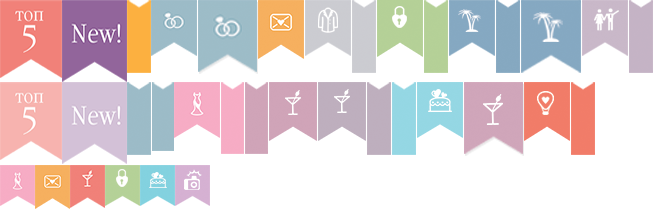
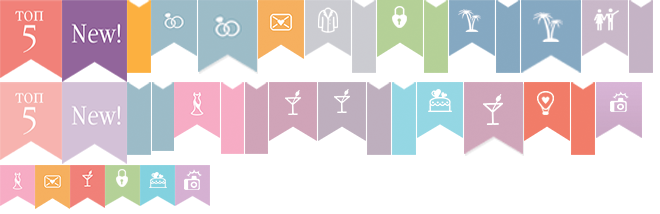
+ photo galleries

Changed region(s): [[0.8788, 0.3645, 0.9697, 0.6449]]

diff --git a/photographer-personal.html b/photographer-personal.html
@@ -320,6 +320,167 @@
                         </aside>
                     </div>
                 </div>
+                <div class="articles">
+                    <h3 class="title title-see-more-short two-sides-dots"><span>Смотреть еще</span></h3>
+                    <ul>
+                        <li>
+                            <div class="photo-box photo-box-large2 purple-color">
+                                <div class="caption">
+                                    <div class="cell cell-sticker">
+                                        <span class="sticker violet-wide"></span>
+                                    </div>
+                                    <div class="cell">
+                                        <strong><a href="#">Имя Фамилия</a></strong>
+                                        <span class="price">от 3 000 руб.</span>
+                                    </div>
+                                </div>
+                                <div class="photo">
+                                    <div class="cropper">
+                                        <div class="slides">
+                                            <div class="slide"><img src="images/img167.jpg" alt="" width="381" height="253"/></div>
+                                            <div class="slide"><img src="images/img168.jpg" alt="" width="362" height="245"/></div>
+                                            <div class="slide"><img src="images/img169.jpg" alt="" width="358" height="243"/></div>
+                                            <div class="slide"><img src="images/img170.jpg" alt="" width="367" height="254"/></div>
+                                            <div class="slide"><img src="images/img171.jpg" alt="" width="361" height="246"/></div>
+                                        </div>
+                                    </div>
+                                    <span class="btn-left" href="#">&nbsp;</span>
+                                    <span class="btn-right" href="#">&nbsp;</span>
+                                </div>
+                            </div>
+                        </li>
+                        <li>
+                            <div class="photo-box photo-box-large2 purple-color">
+                                <div class="caption">
+                                    <div class="cell cell-sticker">
+                                        <span class="sticker violet-wide"></span>
+                                    </div>
+                                    <div class="cell">
+                                        <strong><a href="#">Имя Фамилия</a></strong>
+                                        <span class="price">от 3 000 руб.</span>
+                                    </div>
+                                </div>
+                                <div class="photo">
+                                    <div class="cropper">
+                                        <div class="slides">
+                                            <div class="slide"><img src="images/img168.jpg" alt="" width="362" height="245"/></div>
+                                            <div class="slide"><img src="images/img169.jpg" alt="" width="358" height="243"/></div>
+                                            <div class="slide"><img src="images/img170.jpg" alt="" width="367" height="254"/></div>
+                                            <div class="slide"><img src="images/img171.jpg" alt="" width="361" height="246"/></div>
+                                            <div class="slide"><img src="images/img167.jpg" alt="" width="381" height="253"/></div>
+                                        </div>
+                                    </div>
+                                    <span class="btn-left" href="#">&nbsp;</span>
+                                    <span class="btn-right" href="#">&nbsp;</span>
+                                </div>
+                            </div>
+                        </li>
+                        <li>
+                            <div class="photo-box photo-box-large2 purple-color">
+                                <div class="caption">
+                                    <div class="cell cell-sticker">
+                                        <span class="sticker violet-wide"></span>
+                                    </div>
+                                    <div class="cell">
+                                        <strong><a href="#">Имя Фамилия</a></strong>
+                                        <span class="price">от 3 000 руб.</span>
+                                    </div>
+                                </div>
+                                <div class="photo">
+                                    <div class="cropper">
+                                        <div class="slides">
+                                            <div class="slide"><img src="images/img169.jpg" alt="" width="358" height="243"/></div>
+                                            <div class="slide"><img src="images/img170.jpg" alt="" width="367" height="254"/></div>
+                                            <div class="slide"><img src="images/img171.jpg" alt="" width="361" height="246"/></div>
+                                            <div class="slide"><img src="images/img167.jpg" alt="" width="381" height="253"/></div>
+                                            <div class="slide"><img src="images/img168.jpg" alt="" width="362" height="245"/></div>
+                                        </div>
+                                    </div>
+                                    <span class="btn-left" href="#">&nbsp;</span>
+                                    <span class="btn-right" href="#">&nbsp;</span>
+                                </div>
+                            </div>
+                        </li>
+                        <li>
+                            <div class="photo-box photo-box-large2 purple-color">
+                                <div class="caption">
+                                    <div class="cell cell-sticker">
+                                        <span class="sticker violet-wide"></span>
+                                    </div>
+                                    <div class="cell">
+                                        <strong><a href="#">Имя Фамилия</a></strong>
+                                        <span class="price">от 3 000 руб.</span>
+                                    </div>
+                                </div>
+                                <div class="photo">
+                                    <div class="cropper">
+                                        <div class="slides">
+                                            <div class="slide"><img src="images/img168.jpg" alt="" width="362" height="245"/></div>
+                                            <div class="slide"><img src="images/img169.jpg" alt="" width="358" height="243"/></div>
+                                            <div class="slide"><img src="images/img170.jpg" alt="" width="367" height="254"/></div>
+                                            <div class="slide"><img src="images/img171.jpg" alt="" width="361" height="246"/></div>
+                                            <div class="slide"><img src="images/img167.jpg" alt="" width="381" height="253"/></div>
+                                        </div>
+                                    </div>
+                                    <span class="btn-left" href="#">&nbsp;</span>
+                                    <span class="btn-right" href="#">&nbsp;</span>
+                                </div>
+                            </div>
+                        </li>
+                        <li>
+                            <div class="photo-box photo-box-large2 purple-color">
+                                <div class="caption">
+                                    <div class="cell cell-sticker">
+                                        <span class="sticker violet-wide"></span>
+                                    </div>
+                                    <div class="cell">
+                                        <strong><a href="#">Имя Фамилия</a></strong>
+                                        <span class="price">от 3 000 руб.</span>
+                                    </div>
+                                </div>
+                                <div class="photo">
+                                    <div class="cropper">
+                                        <div class="slides">
+                                            <div class="slide"><img src="images/img170.jpg" alt="" width="367" height="254"/></div>
+                                            <div class="slide"><img src="images/img171.jpg" alt="" width="361" height="246"/></div>
+                                            <div class="slide"><img src="images/img167.jpg" alt="" width="381" height="253"/></div>
+                                            <div class="slide"><img src="images/img168.jpg" alt="" width="362" height="245"/></div>
+                                            <div class="slide"><img src="images/img169.jpg" alt="" width="358" height="243"/></div>
+                                        </div>
+                                    </div>
+                                    <span class="btn-left" href="#">&nbsp;</span>
+                                    <span class="btn-right" href="#">&nbsp;</span>
+                                </div>
+                            </div>
+                        </li>
+                        <li>
+                            <div class="photo-box photo-box-large2 purple-color">
+                                <div class="caption">
+                                    <div class="cell cell-sticker">
+                                        <span class="sticker violet-wide"></span>
+                                    </div>
+                                    <div class="cell">
+                                        <strong><a href="#">Имя Фамилия</a></strong>
+                                        <span class="price">от 3 000 руб.</span>
+                                    </div>
+                                </div>
+                                <div class="photo">
+                                    <div class="cropper">
+                                        <div class="slides">
+                                            <div class="slide"><img src="images/img171.jpg" alt="" width="361" height="246"/></div>
+                                            <div class="slide"><img src="images/img167.jpg" alt="" width="381" height="253"/></div>
+                                            <div class="slide"><img src="images/img168.jpg" alt="" width="362" height="245"/></div>
+                                            <div class="slide"><img src="images/img169.jpg" alt="" width="358" height="243"/></div>
+                                            <div class="slide"><img src="images/img170.jpg" alt="" width="367" height="254"/></div>
+                                        </div>
+                                    </div>
+                                    <span class="btn-left" href="#">&nbsp;</span>
+                                    <span class="btn-right" href="#">&nbsp;</span>
+                                </div>
+                            </div>
+                        </li>
+                    </ul>
+                </div>
             </div>
         </main>
         <footer id="footer">

diff --git a/css/style.css b/css/style.css
@@ -1004,6 +1004,7 @@ fieldset {
 .photo-box-large .photo .cropper,
 .photo-box-large2 .photo .cropper{height: 256px;}
 
+.photo-box-large2 .photo .slide {width: 375px;}
 .top-articles .photo img {
     display: block;
     margin: 0 auto;
@@ -1286,10 +1287,40 @@ fieldset {
     height: 55px;
     vertical-align: middle;
     display: table-cell;
+    text-align: left;
 }
 .photo-box .caption .cell-sticker {
     vertical-align: bottom;
 }
+.photo-box .slide {
+    float: left;
+}
+
+.photo-box .photo .btn-left,
+.photo-box .photo .btn-right {
+    position: absolute;
+    width: 25px;
+    height: 24px;
+    background: red;
+    top: 50%;
+    margin: 15px 0 0;
+    z-index: 10;
+}
+.photo-box .photo .btn-left {
+    left: 25px;
+    background: url(../images/sprite.png) no-repeat -423px -8px;
+}
+.photo-box .photo .btn-left:hover {
+    background-position: -450px -8px;
+}
+.photo-box .photo .btn-right {
+    right: 25px;
+    background: url(../images/sprite.png) no-repeat -423px -40px;
+}
+.photo-box .photo .btn-right:hover {
+    background-position: -450px -40px;
+}
+
 .photo-box-large2 .caption {
     top: 0;
     bottom: auto;
@@ -1343,6 +1374,7 @@ fieldset {
     color: #6d6e71;
 }
 .photo-box .caption .price {font-size: 14px;}
+.photo-box-large2 .caption .price {font-size: 18px;}
 .photo-box .sticker {
     display: block;
     margin: 0 15px 0 0;
@@ -1392,7 +1424,8 @@ fieldset {
 .photo-box .sticker.gray-wide,
 .photo-box .sticker.green-wide,
 .photo-box .sticker.turquoise-wide,
-.photo-box .sticker.red-wide{
+.photo-box .sticker.red-wide,
+.photo-box .sticker.violet-wide{
     width: 46px;
     height: 59px;
 }
@@ -1428,6 +1461,9 @@ fieldset {
 }
 .photo-box .sticker.red-wide {
     background-position: -524px -82px;
+}
+.photo-box .sticker.violet-wide {
+    background-position: -596px -82px;
 }
 /* shop */
 .shop {

diff --git a/js/jquery.main.js b/js/jquery.main.js
@@ -169,6 +169,19 @@ function initCarousel() {
         animSpeed: 600,
         step: 1
     });
+
+    jQuery('.photo-box .photo').scrollGallery({
+        mask: '.cropper',
+        slider: '> .slides',
+        slides: '> .slide',
+        btnPrev: '.btn-left',
+        btnNext: '.btn-right',
+        circularRotation: true,
+        autoRotation: false,
+        maskAutoSize: false,
+        animSpeed: 600,
+        step: 1
+    });
 }
 
 // lightbox init

diff --git a/birds-service.html b/birds-service.html
@@ -193,7 +193,7 @@
                     </div>
                 </div>
                 <div class="see-also">
-                    <h3 class="title title-see-also-short two-sides-dots"><span>Услуги</span></h3>
+                    <h3 class="title title-see-also-short two-sides-dots"><span>Смотрите также</span></h3>
                     <ul>
                         <li>
                             <div class="photo-box photo-box-large">
